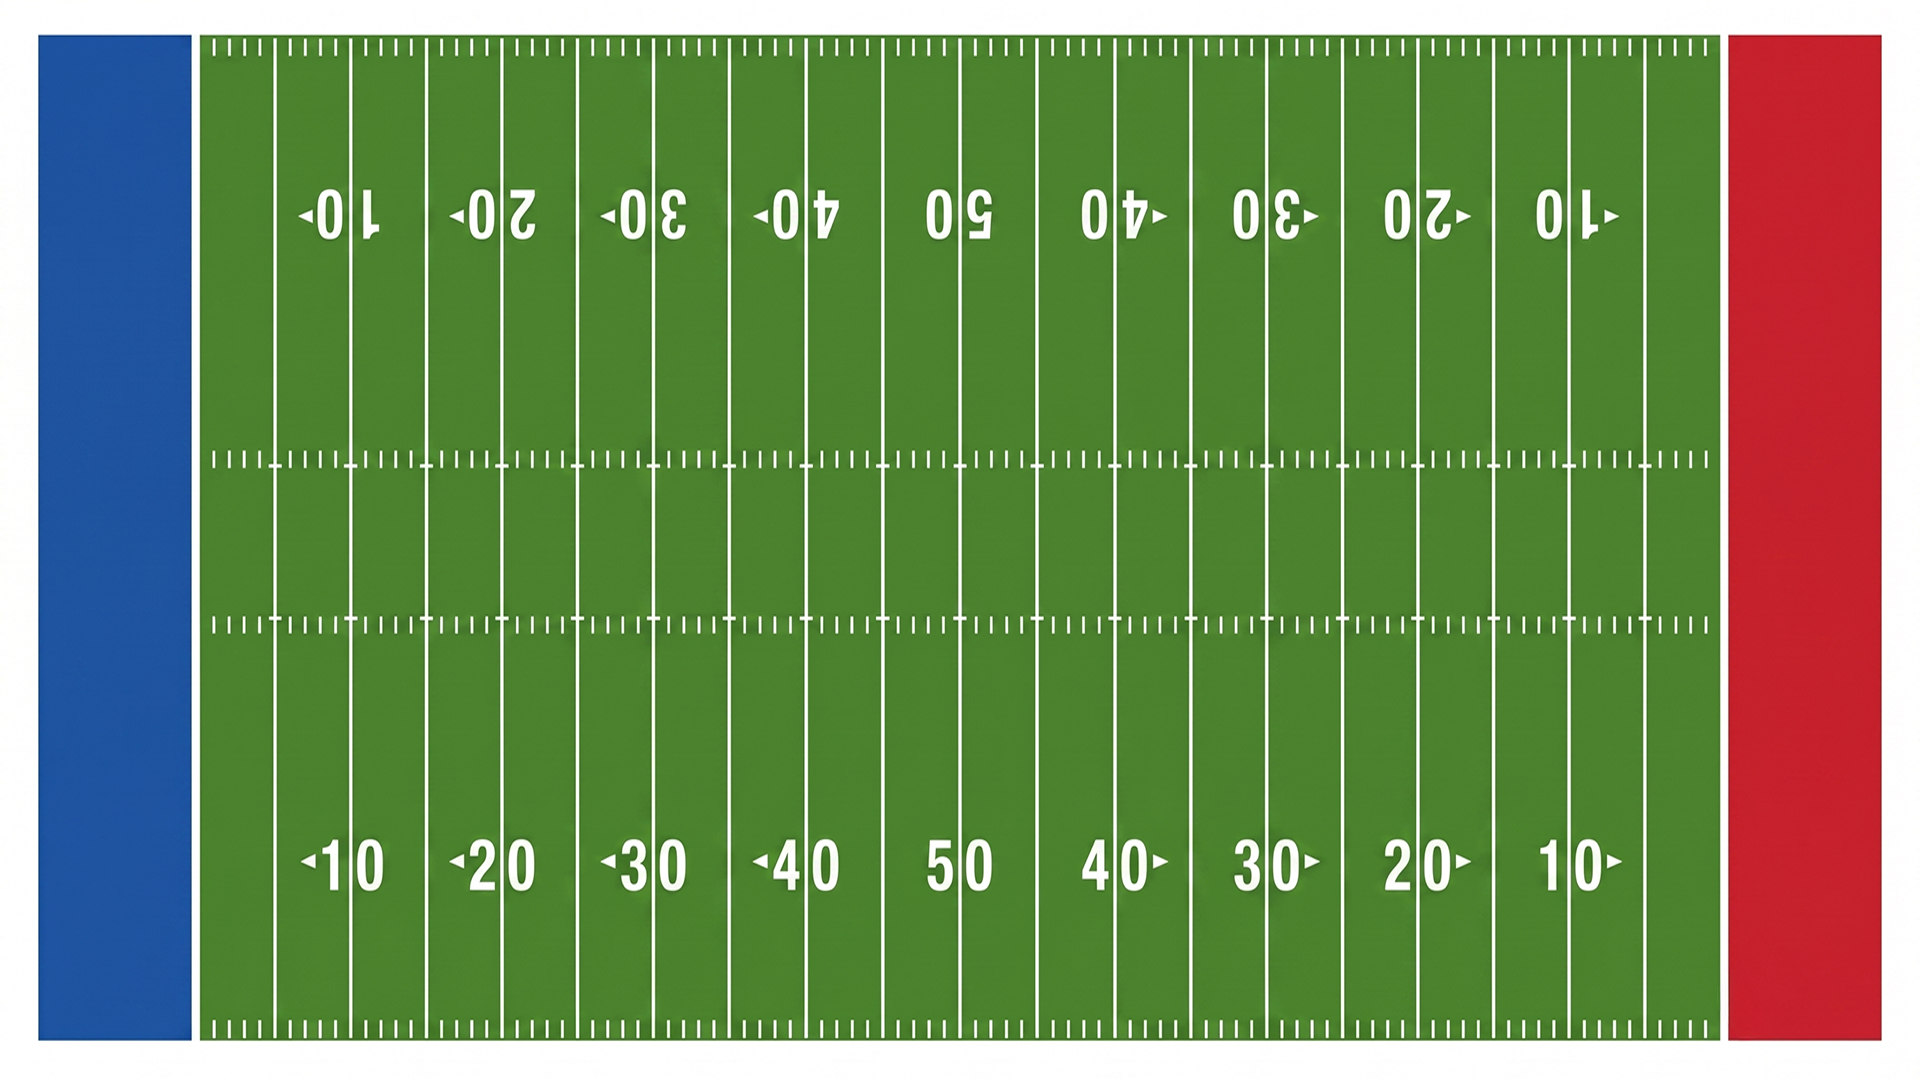
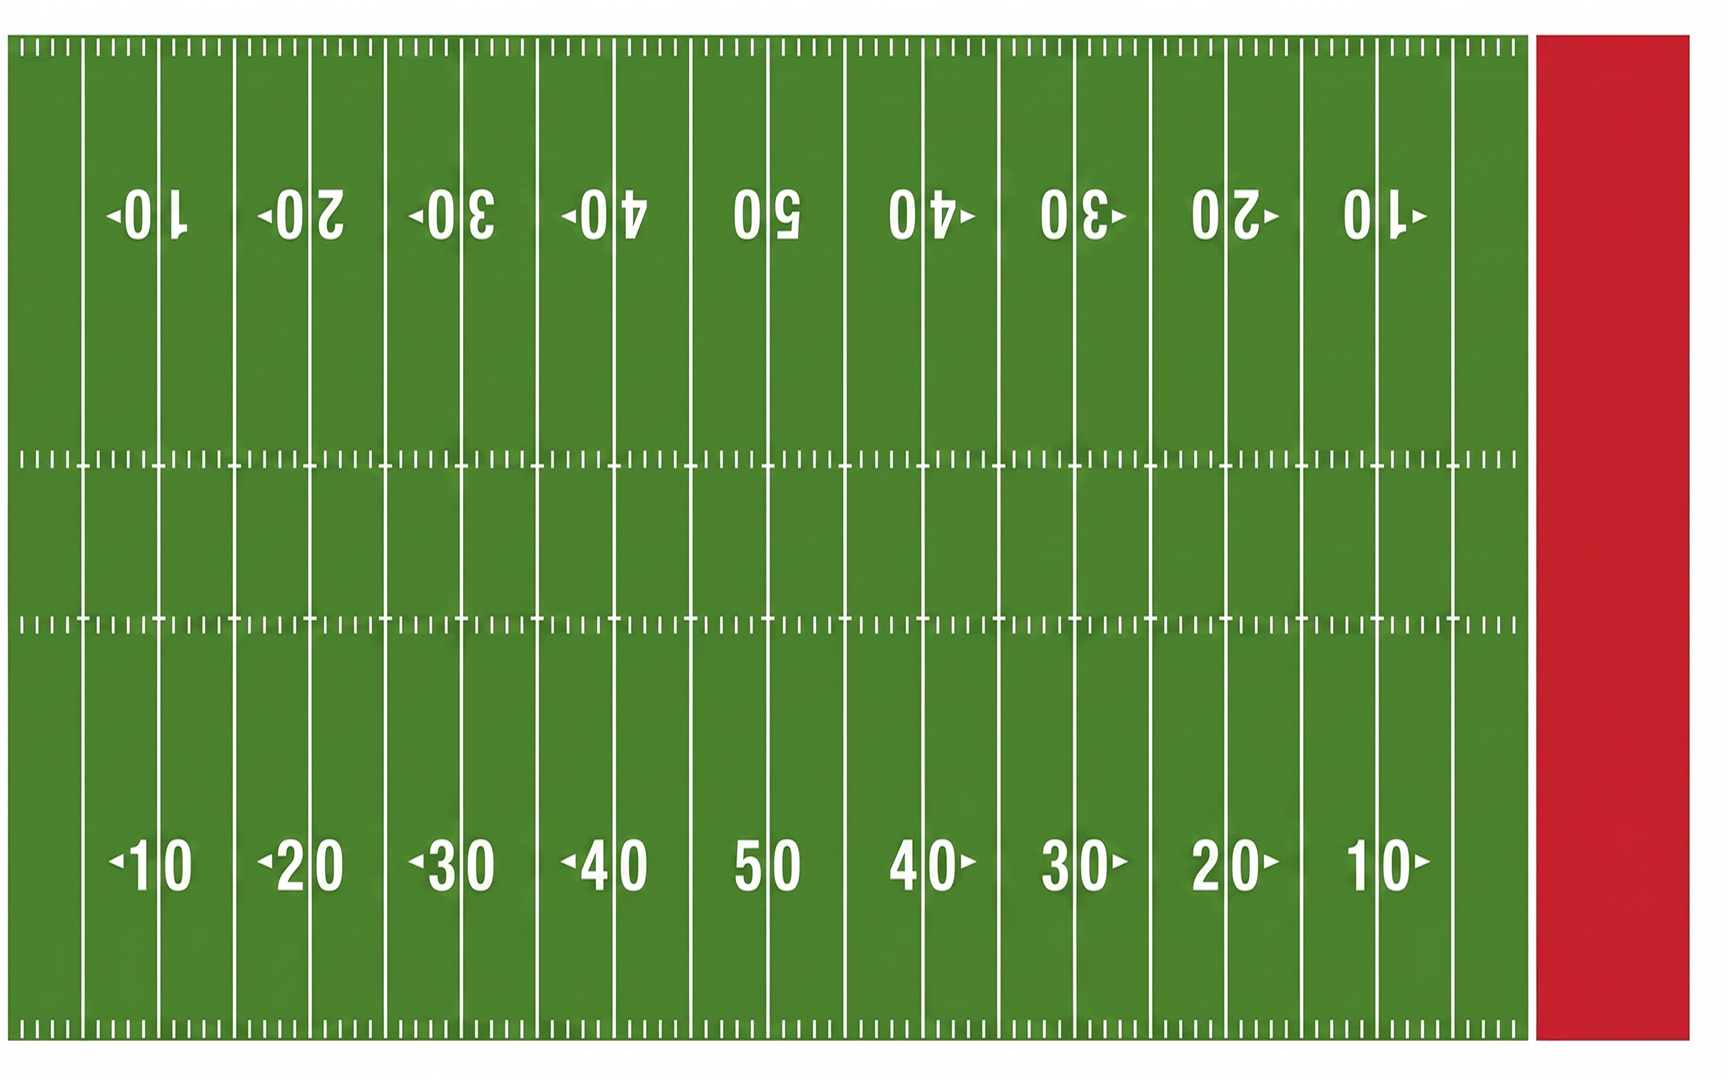
Football-only mode: fix start/finish positions, remove other race types
- Crop field image from left goal line (col 192) so players start AT the
  goal line instead of inside the blue end zone
- Reduce flagW from 10% to 4% so players cross the goal line and land
  inside the red end zone at finish (left edge ~90%, right edge ~96%)
- Remove horse/car/boat race types from RACE_TYPES, RaceTypeId, and SetupScreen;
  raceType is now hardcoded to 'football'

Changed region(s): [[0.0, 0.0306, 0.9062, 0.9778], [0.9688, 0.0306, 1.0, 0.9472]]

diff --git a/src/components/screens/SetupScreen.tsx b/src/components/screens/SetupScreen.tsx
@@ -1,9 +1,8 @@
 'use client';
 
 import { useState } from 'react';
-import Image from 'next/image';
 import Logo from '@/components/Logo';
-import { RACE_TYPES, RACER_COLORS } from '@/lib/constants';
+import { RACER_COLORS } from '@/lib/constants';
 import type { Mode, Participant, RaceTypeId } from '@/types';
 
 interface SetupScreenProps {
@@ -13,7 +12,7 @@ interface SetupScreenProps {
 }
 
 export default function SetupScreen({ mode, onBack, onStart }: SetupScreenProps) {
-  const [raceType, setRaceType] = useState<RaceTypeId>('horse');
+  const raceType: RaceTypeId = 'football';
   const [title, setTitle] = useState('');
   const [names, setNames] = useState(['Alice', 'Bob', 'Charlie', 'Dave']);
   const [newName, setNewName] = useState('');
@@ -56,29 +55,6 @@ export default function SetupScreen({ mode, onBack, onStart }: SetupScreenProps)
           maxLength={60}
           onChange={(e) => setTitle(e.target.value)}
         />
-      </div>
-
-      {/* Race type */}
-      <div>
-        <span className="label">Race Type</span>
-        <div className="race-types">
-          {RACE_TYPES.map((rt) => (
-            <button
-              key={rt.id}
-              className={`rt-btn${raceType === rt.id ? ' active' : ''}`}
-              onClick={() => setRaceType(rt.id)}
-            >
-              <Image
-                src={`/${rt.id}.svg`}
-                alt={rt.label}
-                width={48}
-                height={36}
-                style={{ objectFit: 'contain', color: 'currentColor' }}
-              />
-              <span className="rt-label">{rt.short}</span>
-            </button>
-          ))}
-        </div>
       </div>
 
       {/* Participants */}

diff --git a/src/app/globals.css b/src/app/globals.css
@@ -356,7 +356,7 @@ a { color: inherit; text-decoration: none; }
 
 /* End zone marker — transparent so field image shows through */
 .football-field .lane-flag {
-  width: 10%;
+  width: 4%;
   background: transparent;
   background-image: none;
   border-left: 3px solid rgba(255,255,255,0.85);
@@ -423,7 +423,7 @@ a { color: inherit; text-decoration: none; }
     background-position: 80px 0;
     background-size: calc(100% - 80px) 100%;
   }
-  .football-field .lane-flag { width: 10%; }
+  .football-field .lane-flag { width: 4%; }
 
   .btn-xl { font-size: 21px; padding: 16px 32px; }
   .result-row { padding: 11px 14px; gap: 10px; }

diff --git a/src/components/screens/RaceScreen.tsx b/src/components/screens/RaceScreen.tsx
@@ -85,7 +85,7 @@ export default function RaceScreen({ participants, raceType, seed, title, onFini
       if (!trackRef.current) return;
       const labelW = mobile ? 80 : 196;
       const trackW = trackRef.current.offsetWidth - labelW;
-      setFootballFlagW(Math.max(0, Math.round(trackW * 0.10)));
+      setFootballFlagW(Math.max(0, Math.round(trackW * 0.04)));
     };
     measure();
     window.addEventListener('resize', measure);

diff --git a/src/lib/constants.ts b/src/lib/constants.ts
@@ -7,9 +7,6 @@ export const RACER_COLORS = [
 ];
 
 export const RACE_TYPES: RaceType[] = [
-  { id: 'horse',    label: 'Horse Race',    emoji: '🐎', short: 'HORSE'    },
-  { id: 'car',      label: 'Car Race',      emoji: '🏎', short: 'CAR'      },
-  { id: 'boat',     label: 'Boat Race',     emoji: '🚤', short: 'BOAT'     },
   { id: 'football', label: 'Football Race', emoji: '🏈', short: 'FOOTBALL' },
 ];
 

diff --git a/src/types/index.ts b/src/types/index.ts
@@ -1,5 +1,5 @@
 export type Theme = 'warm' | 'night' | 'broadcast';
-export type RaceTypeId = 'horse' | 'car' | 'boat' | 'football';
+export type RaceTypeId = 'football';
 export type Screen = 'home' | 'setup' | 'remoteLobby' | 'prerace' | 'race' | 'results';
 export type Mode = 'inperson' | 'remote';
 
